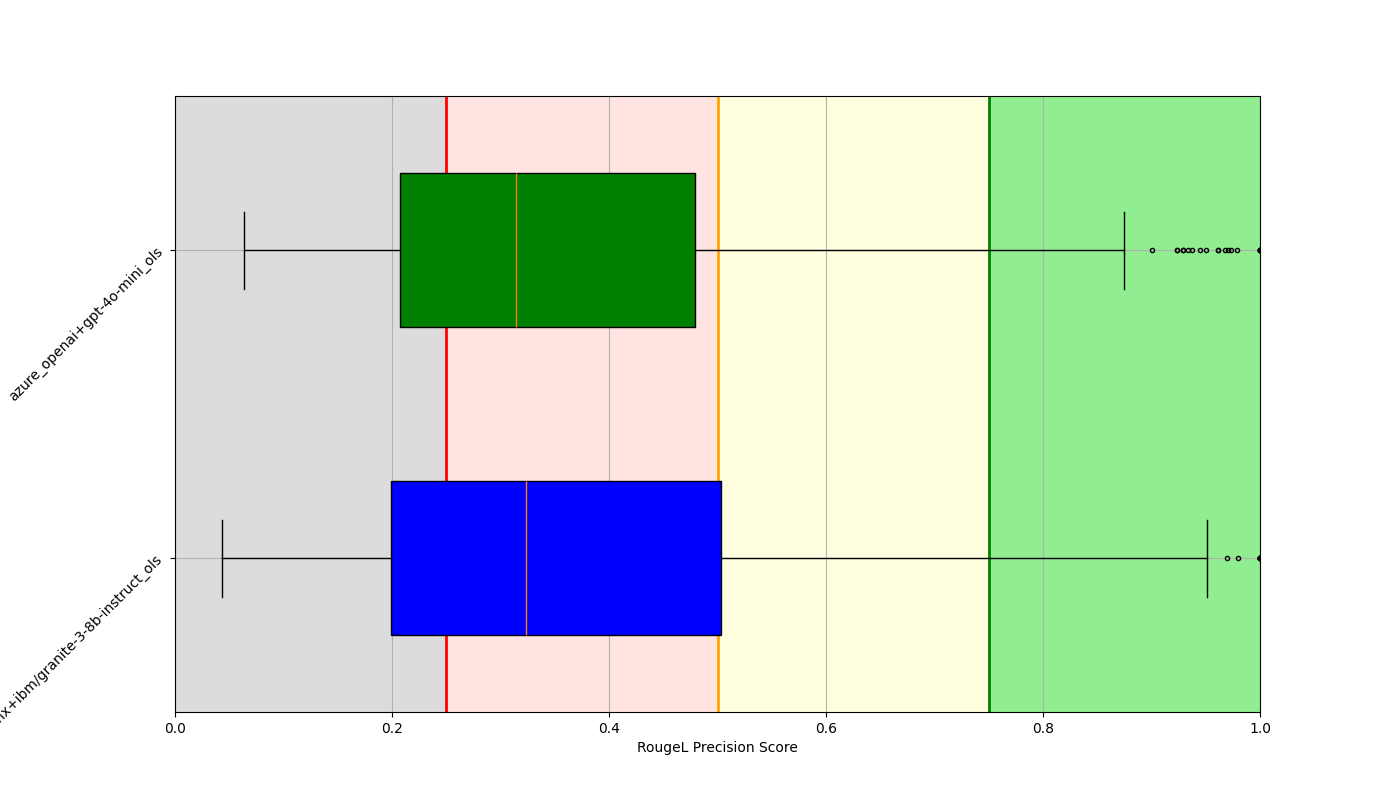
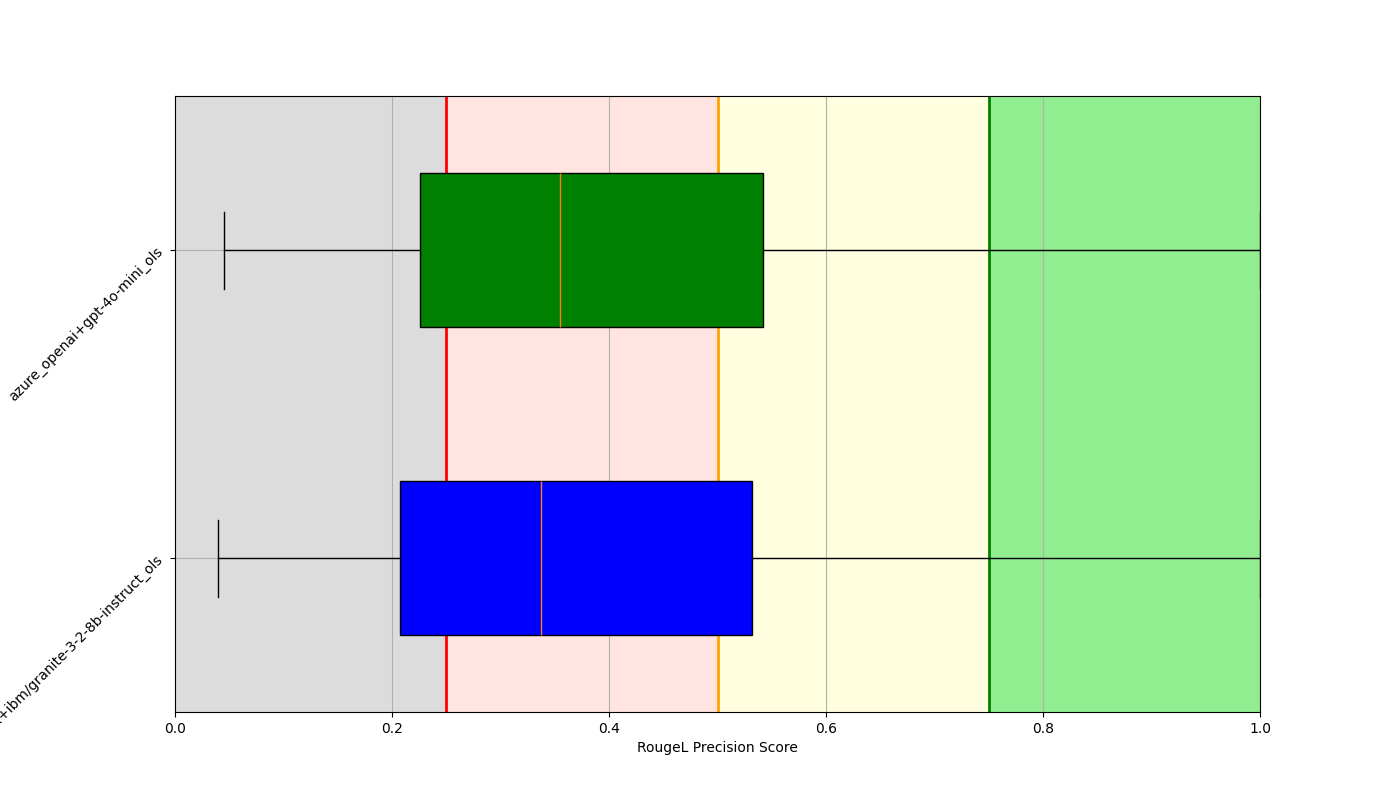
Eval - latest results

diff --git a/scripts/evaluation/eval_data/result/README.md b/scripts/evaluation/eval_data/result/README.md
@@ -6,13 +6,15 @@
 - [Instruction to run eval script](../../README.md)
 
 ## Result
-- Last Execution date: `2025-03-02`
+- Last Execution date: `2025-05-07`
 - Evaluated Provider/Models:
-    - (watsonx) ibm/granite-3-8b-instruct (API Version: 2024-11-27)
+    - (watsonx) ibm/granite-3-2-8b-instruct (API Version: 2025-04-02)
     - (azure) gpt-4o-mini (Model Version: 2024-07-18, API Version: 2024-02-15-preview)
 - Judge provider/model (LLM based eval): (watsonx) llama-3-1-8b-instruct
 - QnA evaluation dataset: [QnAs from OCP doc](../ocp_doc_qna-edited.parquet)
-- RAG SHA: e4420ab37f9ad90daeab93ba6717db6d388c69a357d0eeb486d1d2d0bc15e085
+- API run mode: without tool calling (streaming internally)
+- RAG SHA: 56269892dcf5279b9857c04918e8fba587008990b09146e907d7af9303bd6c9e
+    - OCP doc: 4.18
     - Embedding model: all-mpnet-base-v2
     - Splitter: Normal (chunk: 380)
     - Vector DB: faiss
